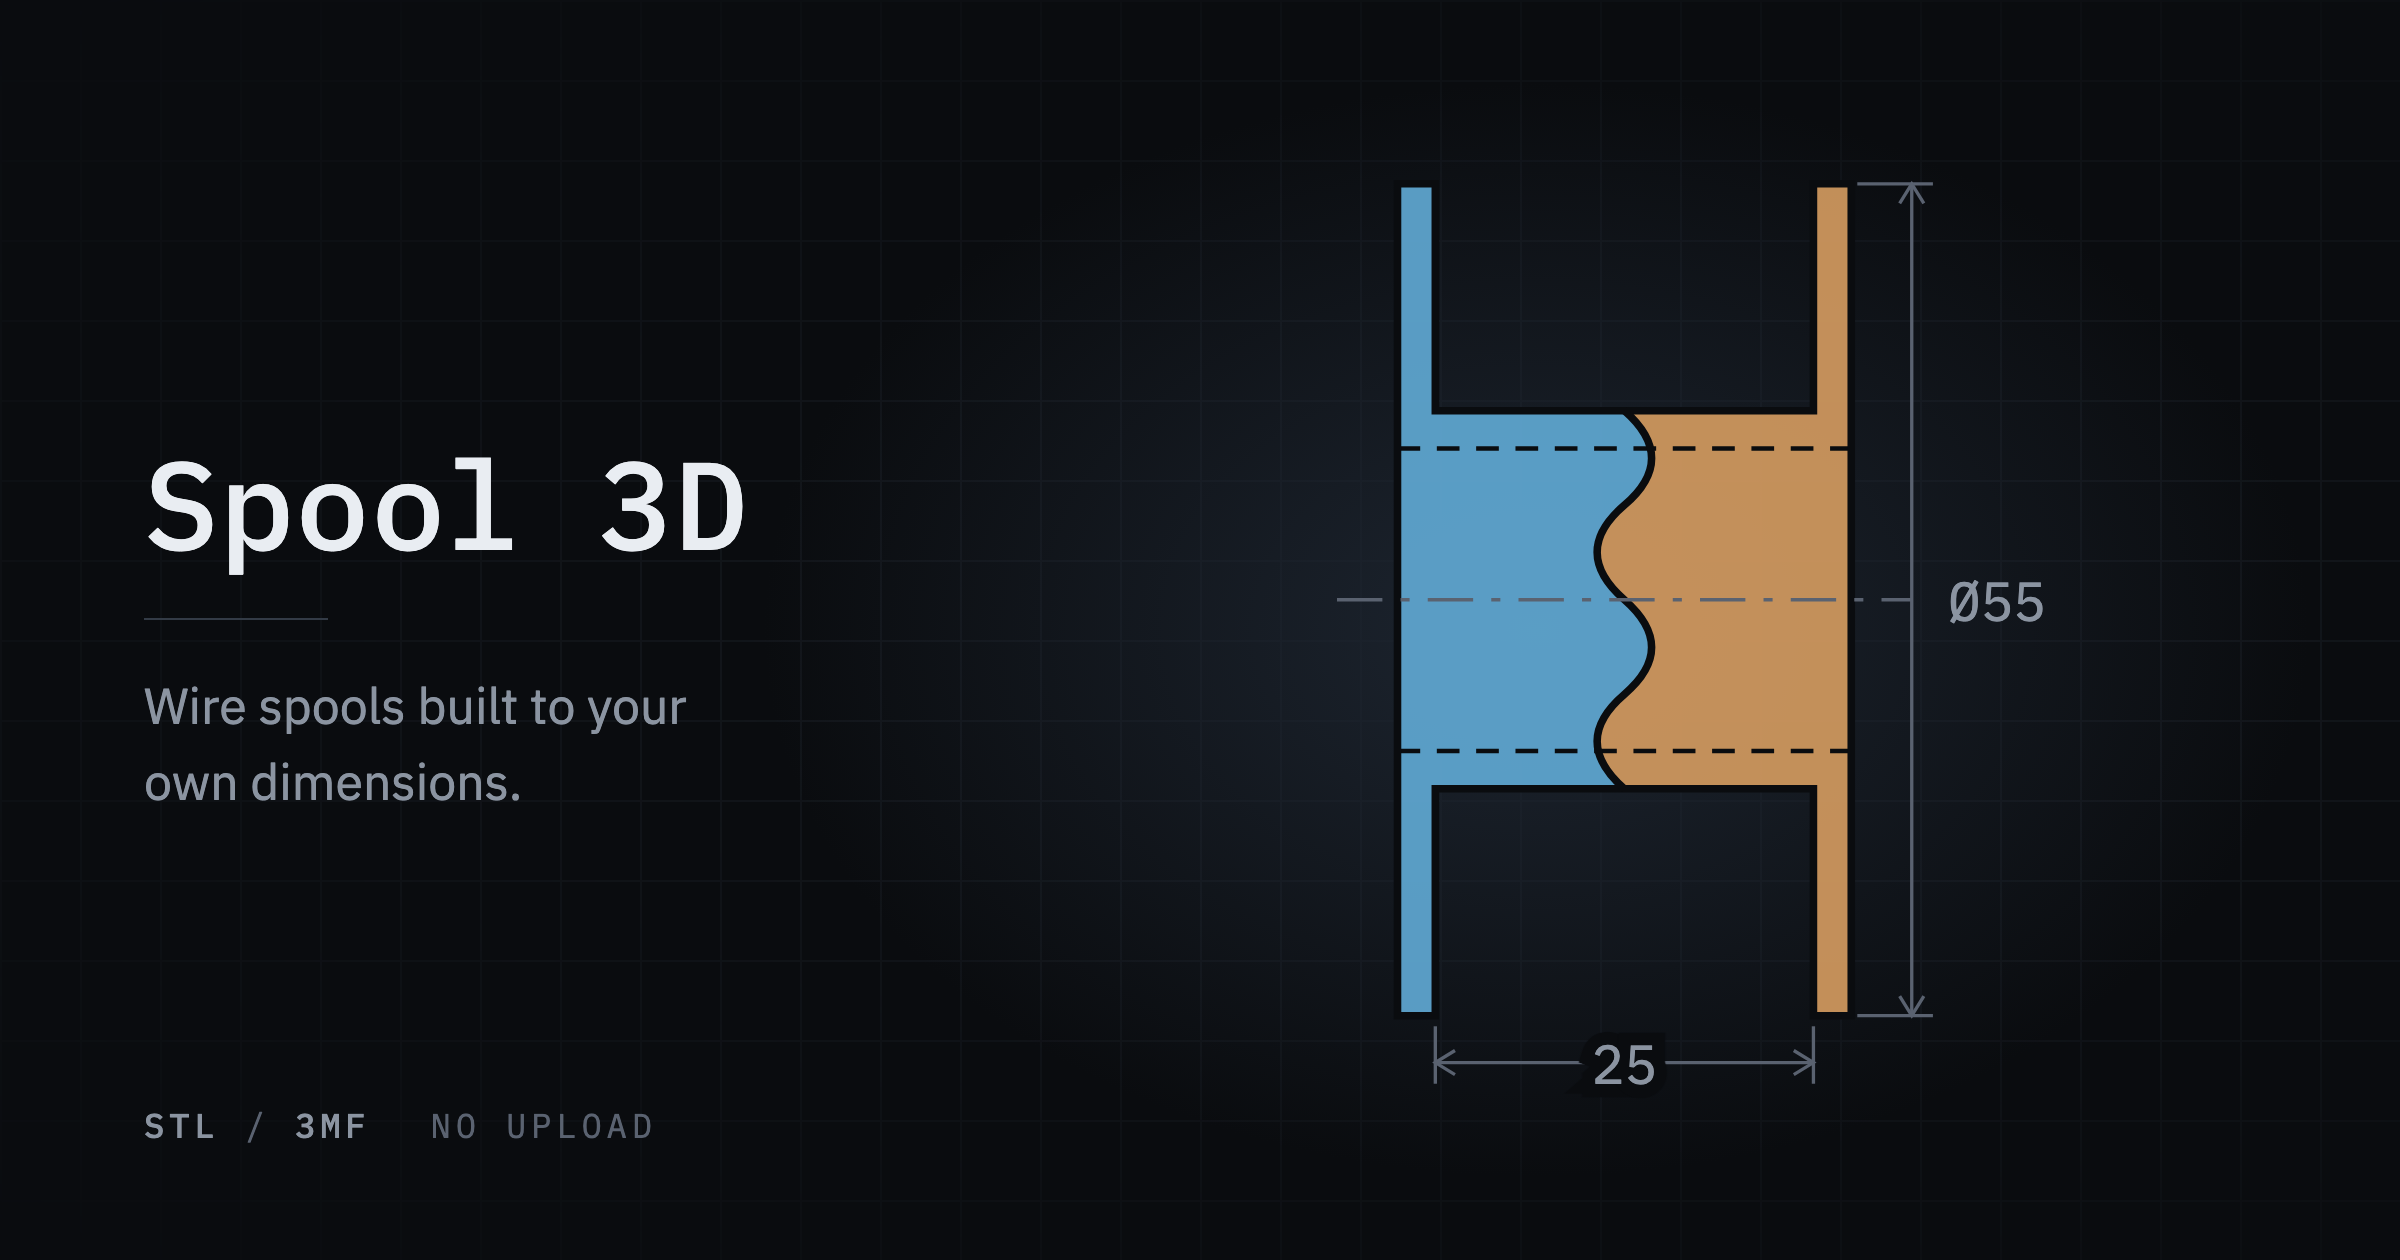
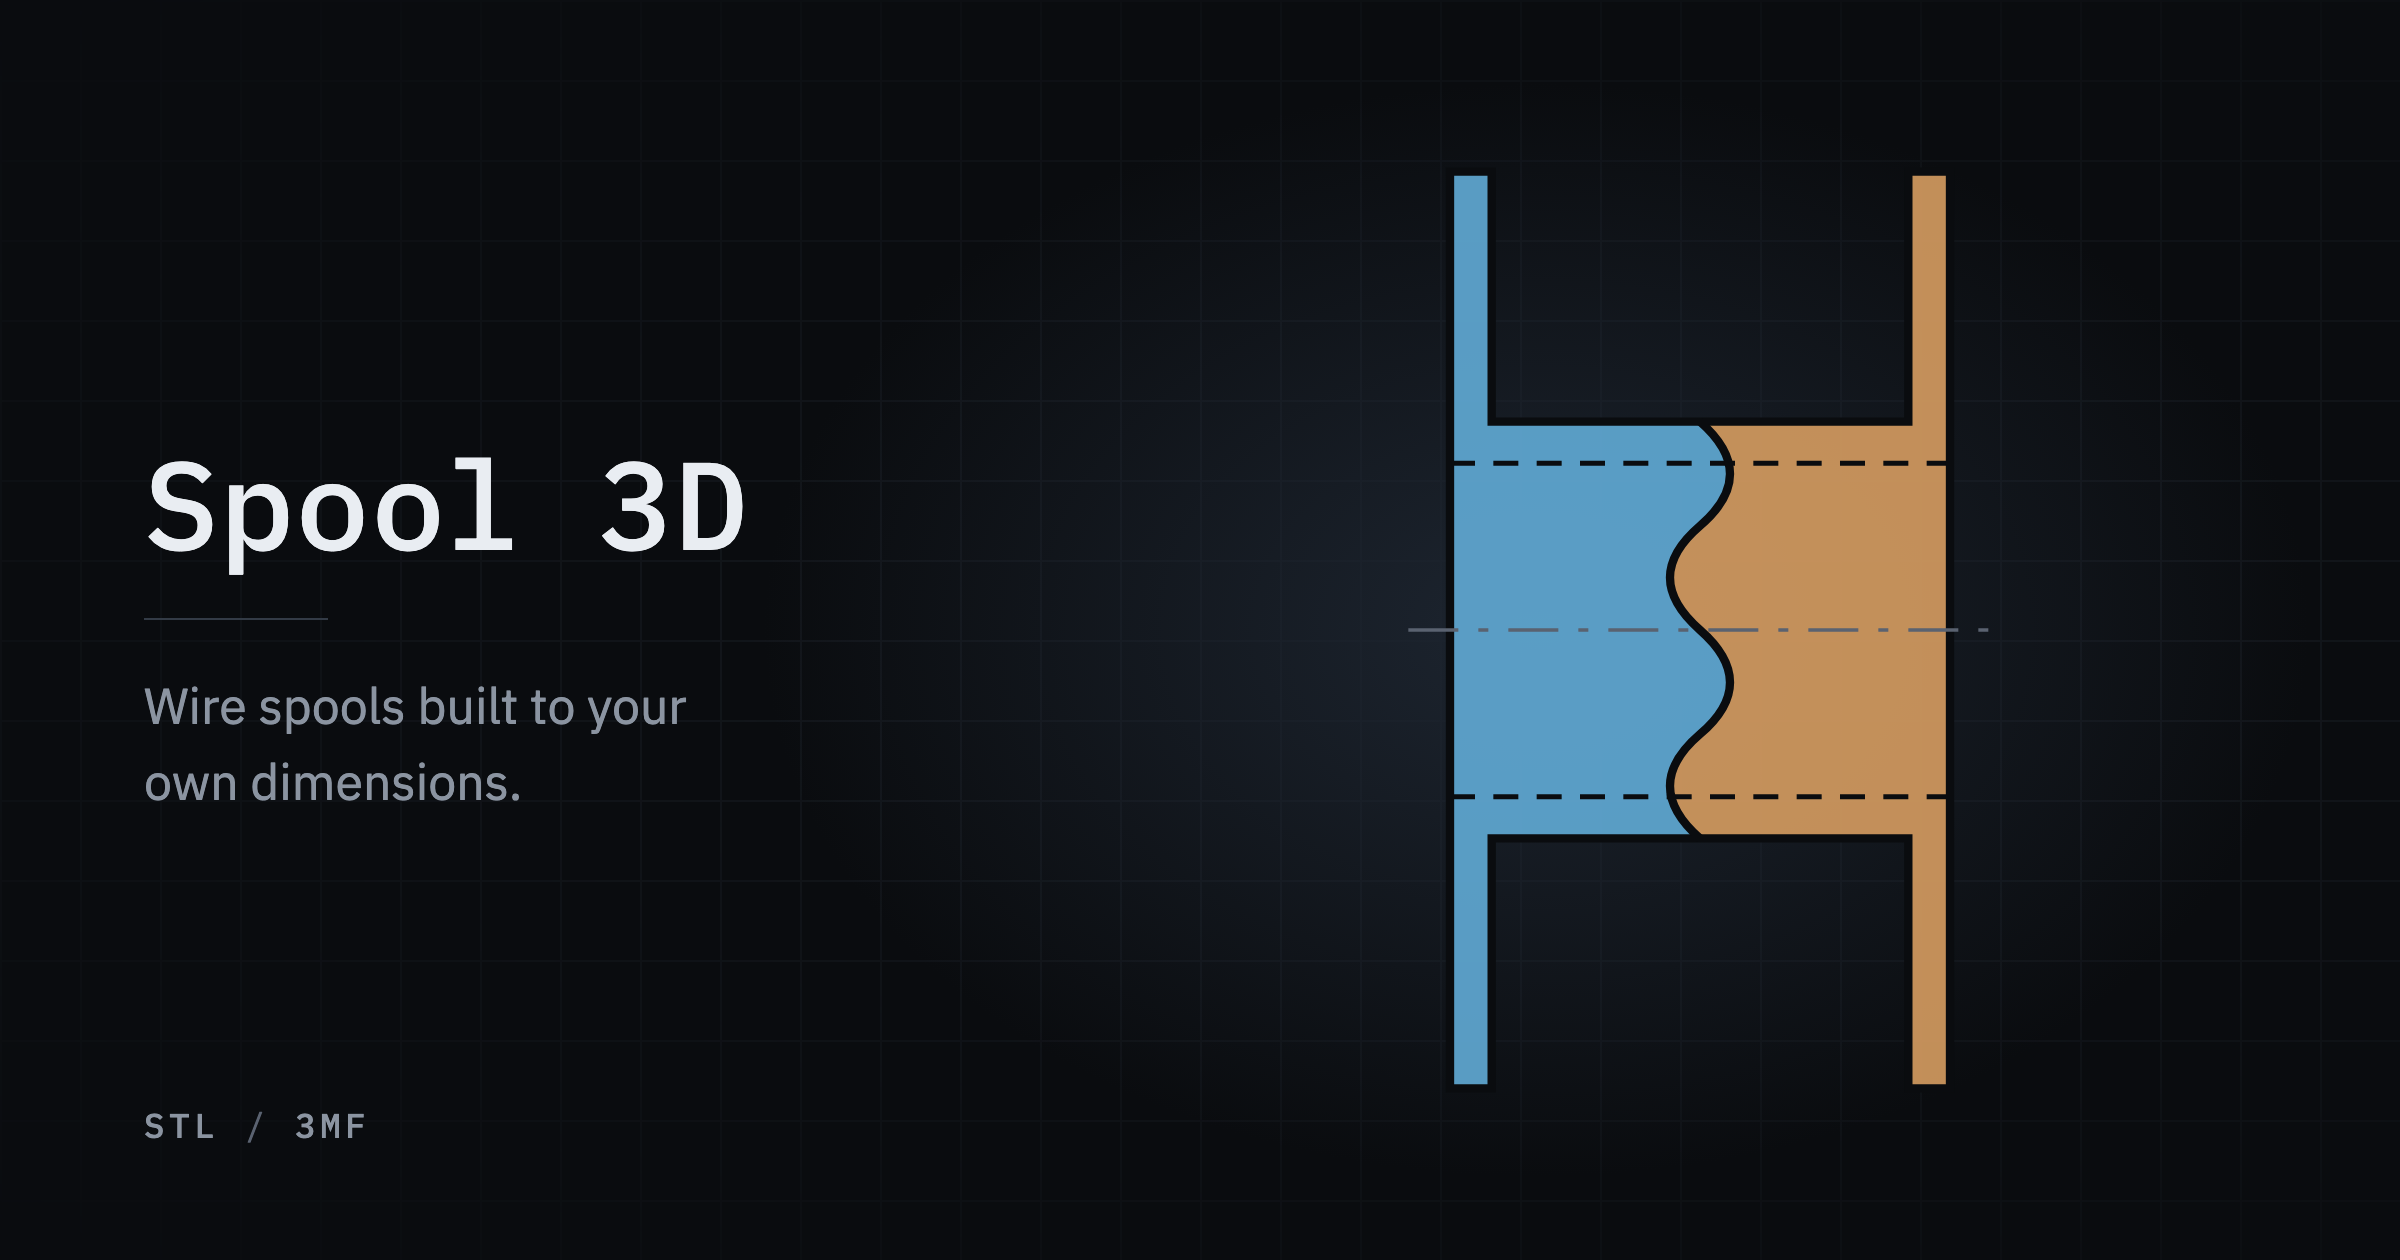
docs: take the dimensions and the last slogan off the social card
A tool whose point is that the numbers are the reader's has no business printing one set of them
on its own card, and the drawing carries the shape without them.

Changed region(s): [[0.5625, 0.1238, 0.8438, 0.8667], [0.6562, 0.8357, 0.6875, 0.8667], [0.2188, 0.8667, 0.25, 0.8976]]

diff --git a/scripts/og/card.html b/scripts/og/card.html
@@ -131,8 +131,6 @@
 				position: absolute;
 				left: 72px;
 				bottom: 56px;
-				display: flex;
-				gap: 30px;
 				font-size: 17px;
 				letter-spacing: 0.14em;
 				text-transform: uppercase;
@@ -161,7 +159,7 @@
 				Drawn in millimetres and scaled once, so the numbers in the markup are the numbers
 				on the dimension lines: the stock spool, 55 across and 25 between the flanges.
 			-->
-			<svg width="424" height="484" viewBox="-23 -30 56 64" fill="none">
+			<svg width="350" height="500" viewBox="-21 -30 42 60" fill="none">
 				<defs>
 					<!--
 						The seam. A sine across the core stands in for the parting surface, whose
@@ -181,18 +179,18 @@
 					   C -2.4 8.3, -2.4 10.4, 0 12.5" />
 
 					<clipPath id="nearer">
-						<path d="M-23 -30 H0 V-12.5
+						<path d="M-21 -30 H0 V-12.5
 					   C 2.4 -10.4, 2.4 -8.3, 0 -6.25
 					   C -2.4 -4.2, -2.4 -2.1, 0 0
 					   C 2.4 2.1, 2.4 4.2, 0 6.25
-					   C -2.4 8.3, -2.4 10.4, 0 12.5 V34 H-23 Z" />
+					   C -2.4 8.3, -2.4 10.4, 0 12.5 V30 H-21 Z" />
 					</clipPath>
 					<clipPath id="further">
-						<path d="M33 -30 H0 V-12.5
+						<path d="M21 -30 H0 V-12.5
 					   C 2.4 -10.4, 2.4 -8.3, 0 -6.25
 					   C -2.4 -4.2, -2.4 -2.1, 0 0
 					   C 2.4 2.1, 2.4 4.2, 0 6.25
-					   C -2.4 8.3, -2.4 10.4, 0 12.5 V34 H33 Z" />
+					   C -2.4 8.3, -2.4 10.4, 0 12.5 V30 H21 Z" />
 					</clipPath>
 
 					<!-- The silhouette: two flanges at the ends, the core spanning between them. -->
@@ -220,57 +218,15 @@
 
 				<!-- Axis. -->
 				<path
-					d="M-19 0 H19"
+					d="M-17.5 0 H17.5"
 					stroke="#5a6270"
 					stroke-width="0.22"
 					stroke-dasharray="3 1.2 0.6 1.2"
 				/>
 
-				<!-- Flange diameter, set off to the right. -->
-				<g stroke="#5a6270" stroke-width="0.22">
-					<path d="M15.4 -27.5 H20.4" />
-					<path d="M15.4 27.5 H20.4" />
-					<path d="M19 -27.5 V27.5" />
-					<path d="M18.2 -26.2 L19 -27.5 L19.8 -26.2" />
-					<path d="M18.2 26.2 L19 27.5 L19.8 26.2" />
-				</g>
-				<text
-					x="21.4"
-					y="0"
-					fill="#8b94a1"
-					font-family="IBM Plex Mono"
-					font-size="3.6"
-					dominant-baseline="central"
-				>
-					Ø55
-				</text>
-
-				<!-- Winding width, under the core. -->
-				<g stroke="#5a6270" stroke-width="0.22">
-					<path d="M-12.5 28.2 V32" />
-					<path d="M12.5 28.2 V32" />
-					<path d="M-12.5 30.6 H12.5" />
-					<path d="M-11.2 29.8 L-12.5 30.6 L-11.2 31.4" />
-					<path d="M11.2 29.8 L12.5 30.6 L11.2 31.4" />
-				</g>
-				<text
-					x="0"
-					y="30.6"
-					fill="#8b94a1"
-					font-family="IBM Plex Mono"
-					font-size="3.6"
-					text-anchor="middle"
-					dominant-baseline="central"
-					style="paint-order: stroke; stroke: #0a0c0f; stroke-width: 1.8"
-				>
-					25
-				</text>
 			</svg>
 		</div>
 
-		<div class="specs">
-			<span><b>STL</b> / <b>3MF</b></span>
-			<span>No upload</span>
-		</div>
+		<div class="specs"><b>STL</b> / <b>3MF</b></div>
 	</body>
 </html>
